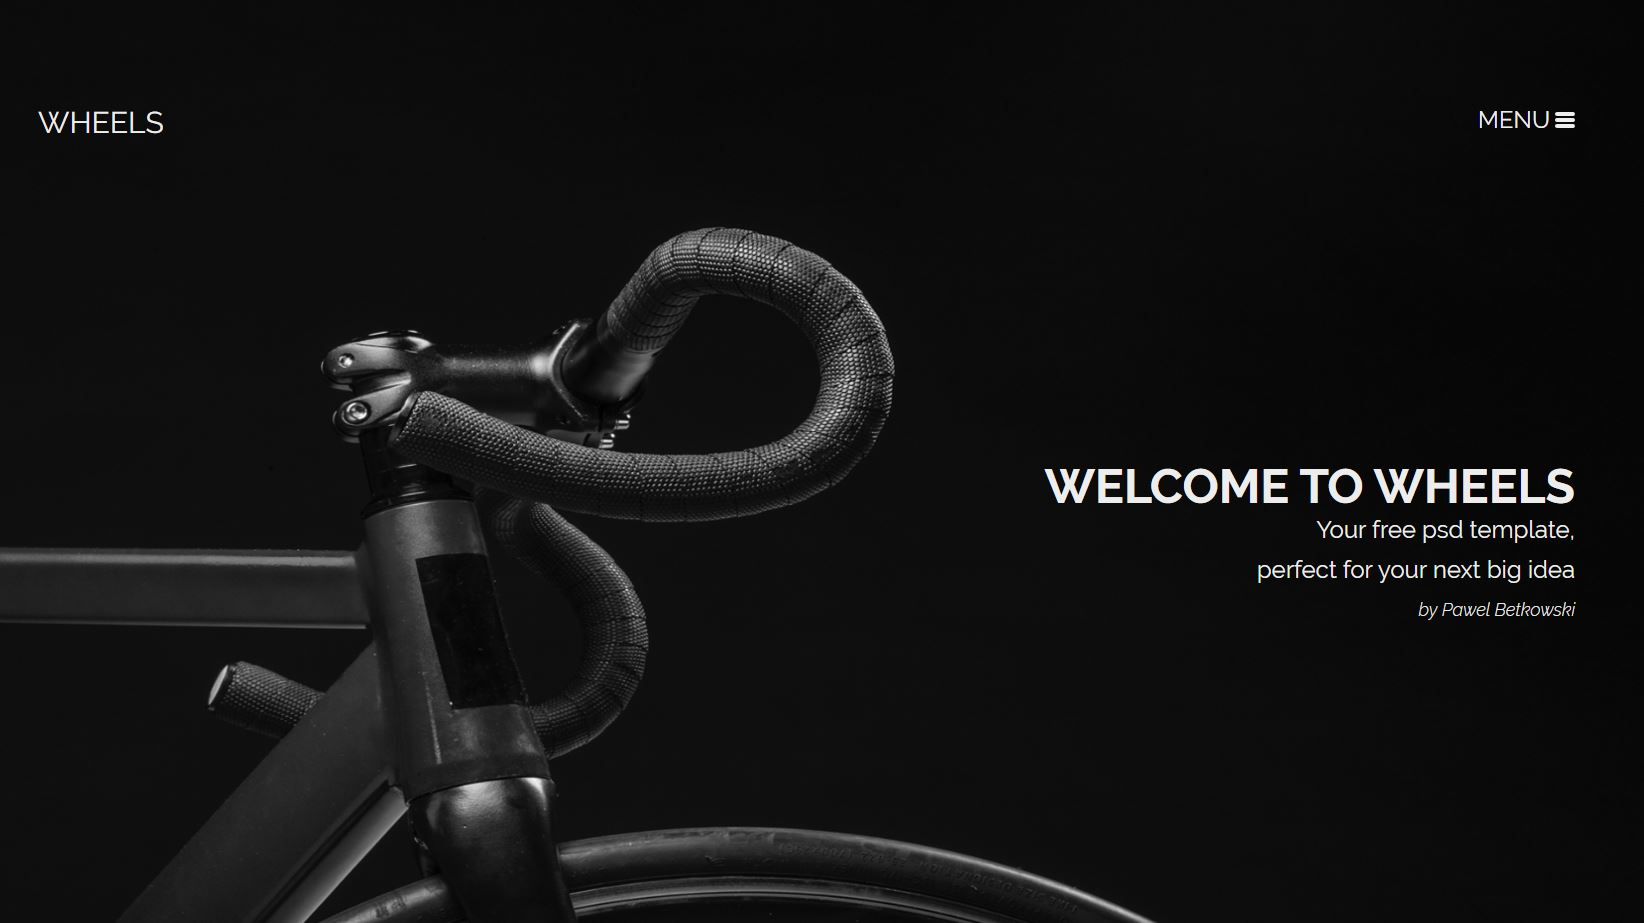
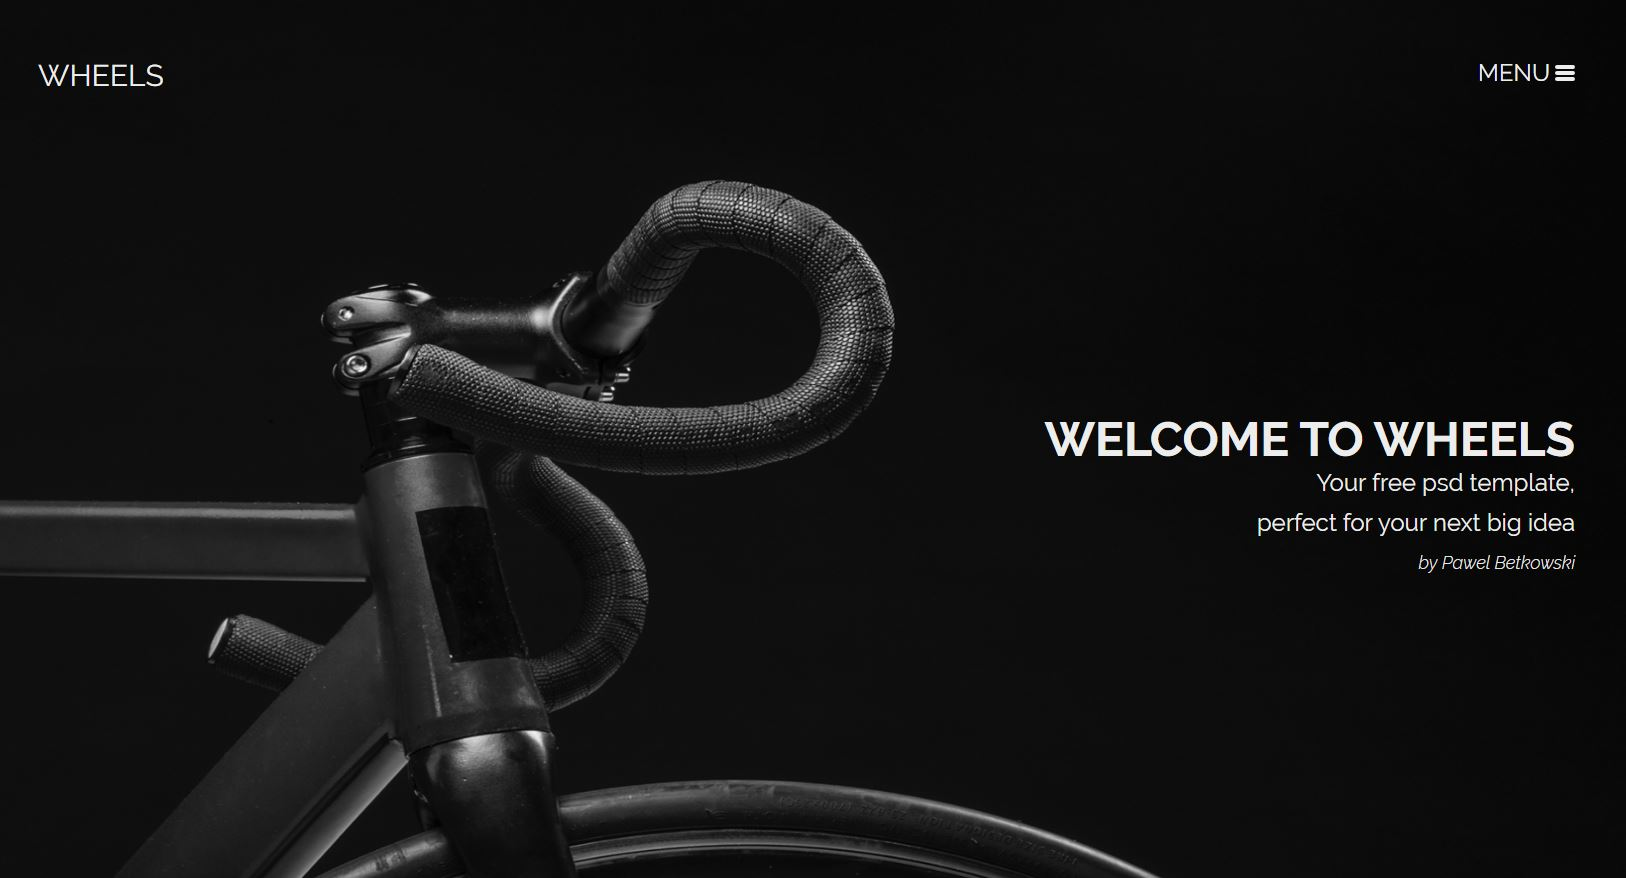
edit

diff --git a/css/style.css b/css/style.css
@@ -160,7 +160,7 @@ html {
           box-shadow: 0 0 10px rgba(175, 169, 169, 0.8); }
 
 .main__maket--5 {
-  background: #000 url("../img/wheel.jpg") no-repeat center center;
+  background: #000 url("../img/wheel.JPG") no-repeat center center;
   background-size: 100% 100%;
   -webkit-box-shadow: 0 0 10px rgba(255, 255, 255, 0.8);
           box-shadow: 0 0 10px rgba(255, 255, 255, 0.8); }

diff --git a/index.html b/index.html
@@ -87,7 +87,5 @@
 			</div>
 		</main>
 		<footer class="footer"></footer>
-		<script>
-		</script>
 	</body>
 </html>
